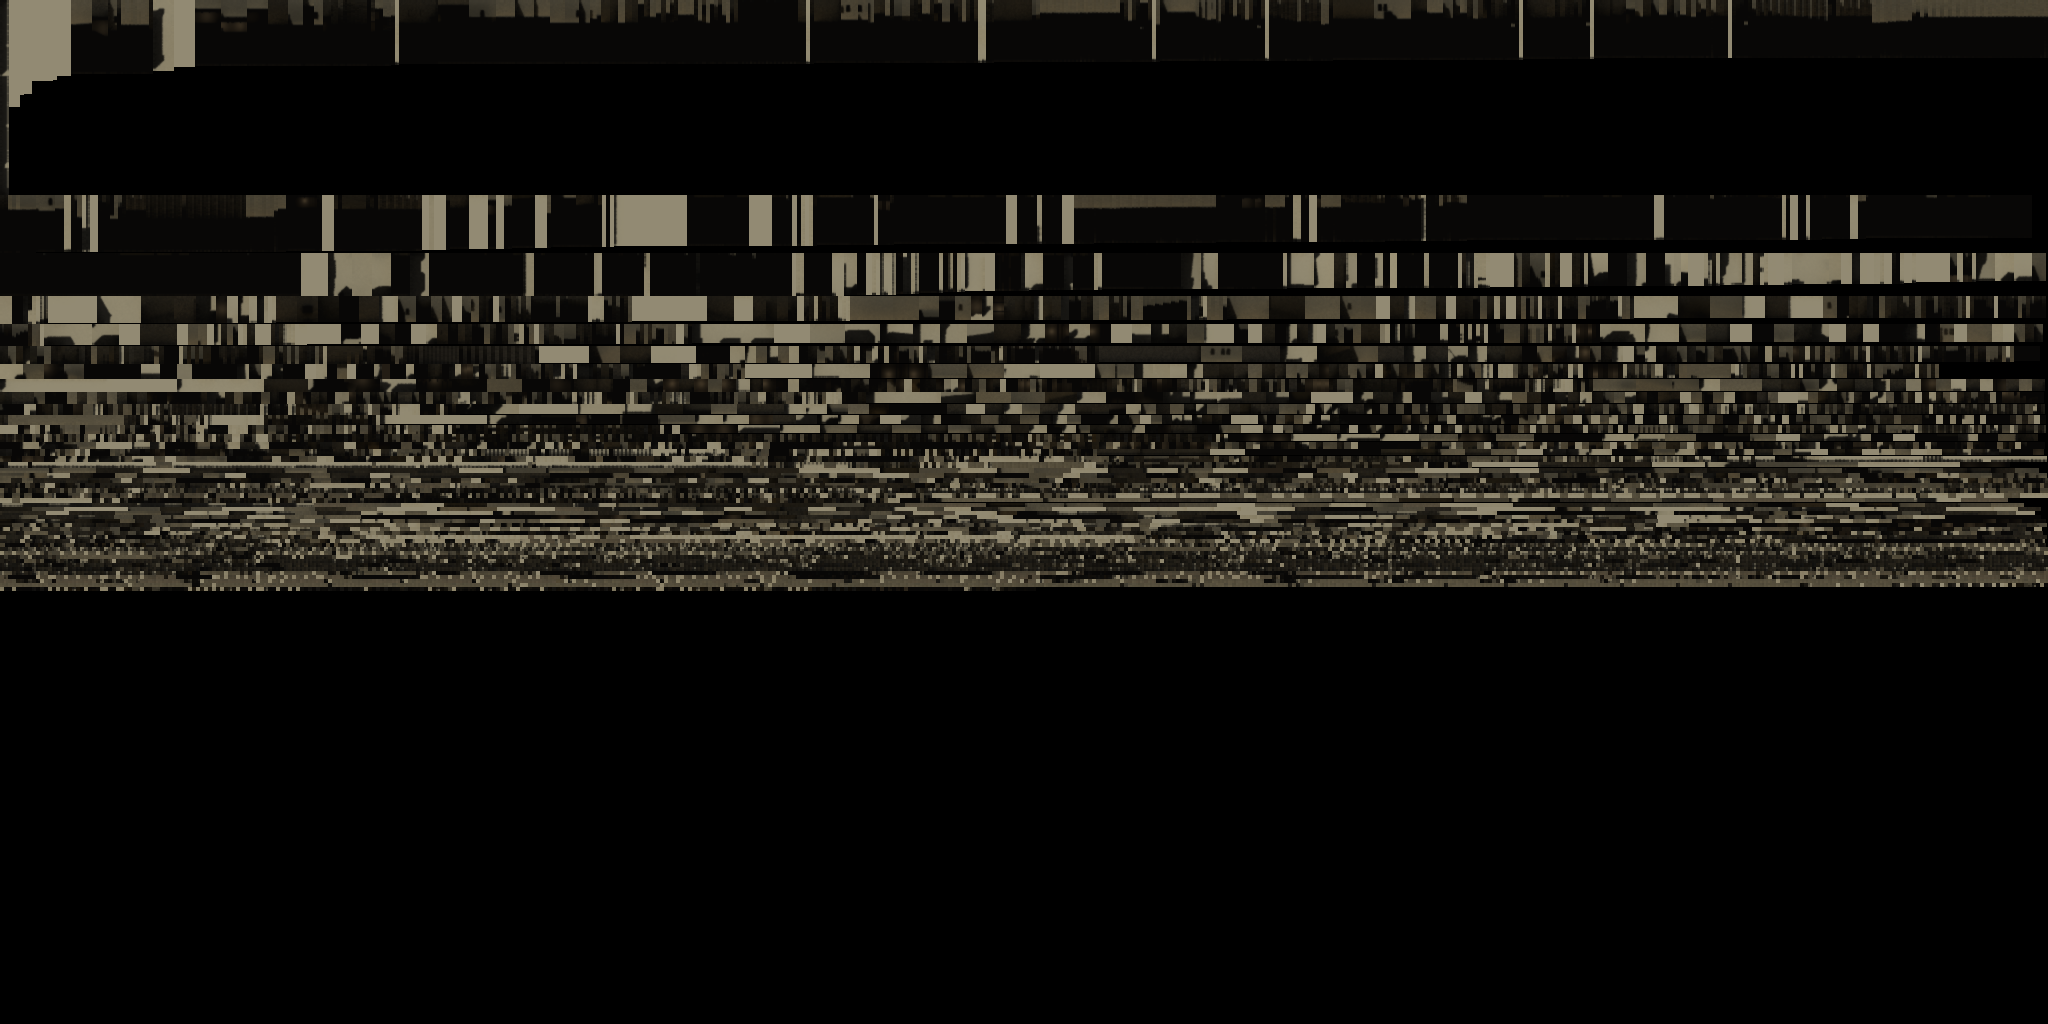
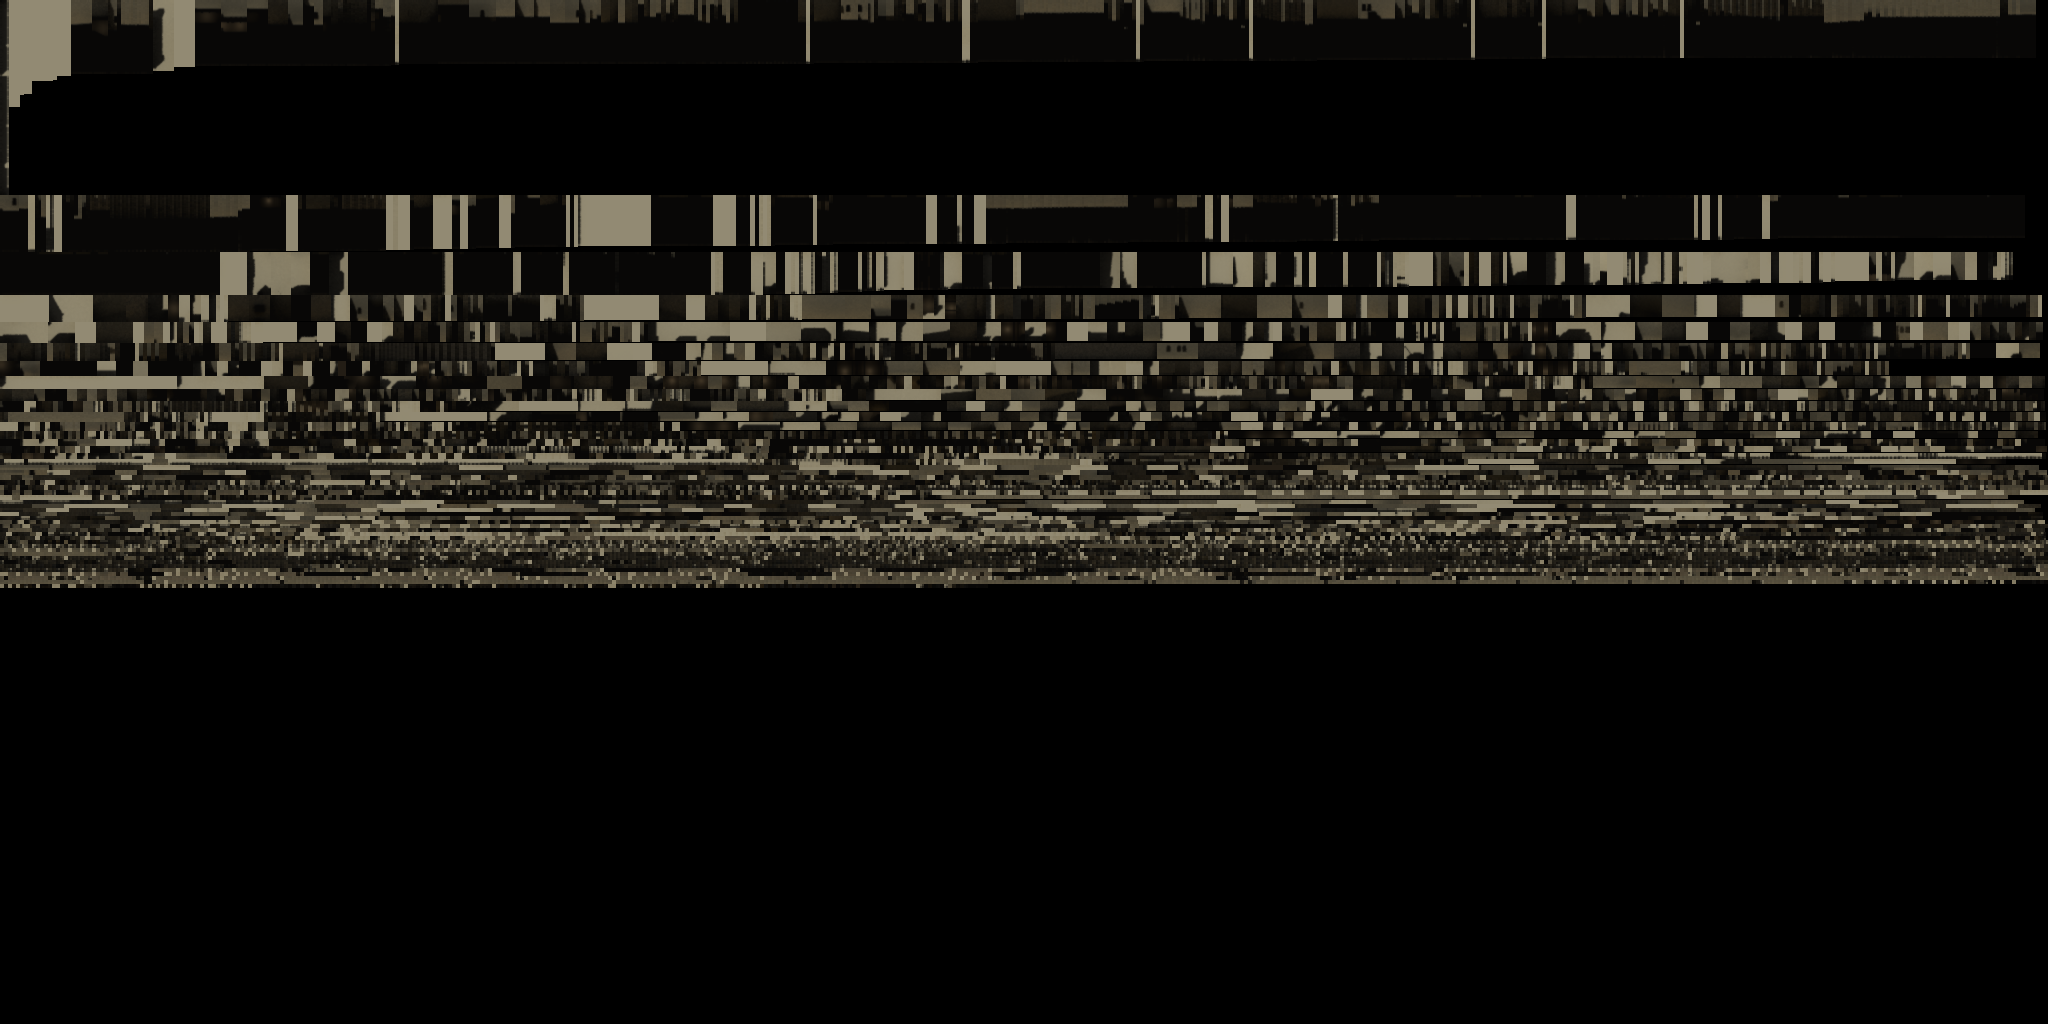
Bot AI: team plans, CT setups and rotations, post-plant/retake, grenade lineups, skill-based combat; nav fixes; A platform-step connection
Claude-Session: https://claude.ai/code/session_01Dq2JLdmLrmLUzwFT8ivnPb

diff --git a/src/game/bots.js b/src/game/bots.js
@@ -1268,7 +1268,7 @@ class Bot {
       this.searchAndListen(it);
     }
     if (blind) this.blinded(it);
-    if (this.avoidFlash && this.time < this.avoidFlash.until) { it.lookAngles = [10, this.avoidFlash.yaw]; it.look = null; it.fire = false; }
+    if (this.avoidFlash && this.time < this.avoidFlash.until) { it.lookAngles = [10, this.avoidFlash.yaw]; it.look = null; it.fire = false; it.combat = false; }
 
     this.manageWeapon(cmd, it);
     // movement
@@ -1609,7 +1609,7 @@ class Bot {
     else if (it.look) [tp, ty] = angleTo(eye, it.look);
     else return;
     const sk = this.skill;
-    const enemy = it.combat && this.targetVisible && this.target;
+    const enemy = it.combat && it.look && this.targetVisible && this.target;
     if (enemy) {
       // where the bot thinks the target is: noise that grows with range and
       // with movement (a far, moving head is hard to place exactly)

diff --git a/src/map/dust2.js b/src/map/dust2.js
@@ -126,6 +126,7 @@ export function buildDust2() {
   m.A('a_plat_nw', 264, 2723, 507, 2763, 96, { tex: SAND, wall: 192 });
   m.A('a_plat_n', 773, 2723, 1032, 2763, 96, { tex: SAND, wall: 192 });
   m.A('a_plat_se', 1032, 2304, 1268, 2420, 96, { tex: SAND, wall: 192 });
+  m.A('a_plat_ne', 1032, 2723, 1268, 2763, 96, { tex: SAND, wall: 192 });
   m.A('a_step', 1032, 2763, 1268, 2812, 112, { tex: STONE, wall: 176 });
   m.A('a_upper', 1032, 2812, 1556, 3090, 128, { tex: SAND, wall: 176 });
   m.Q('a_upper_e', 1556, 2812, 1600, 3090, [-389, 0.25, 0], { tex: SAND, wall: 176 });
